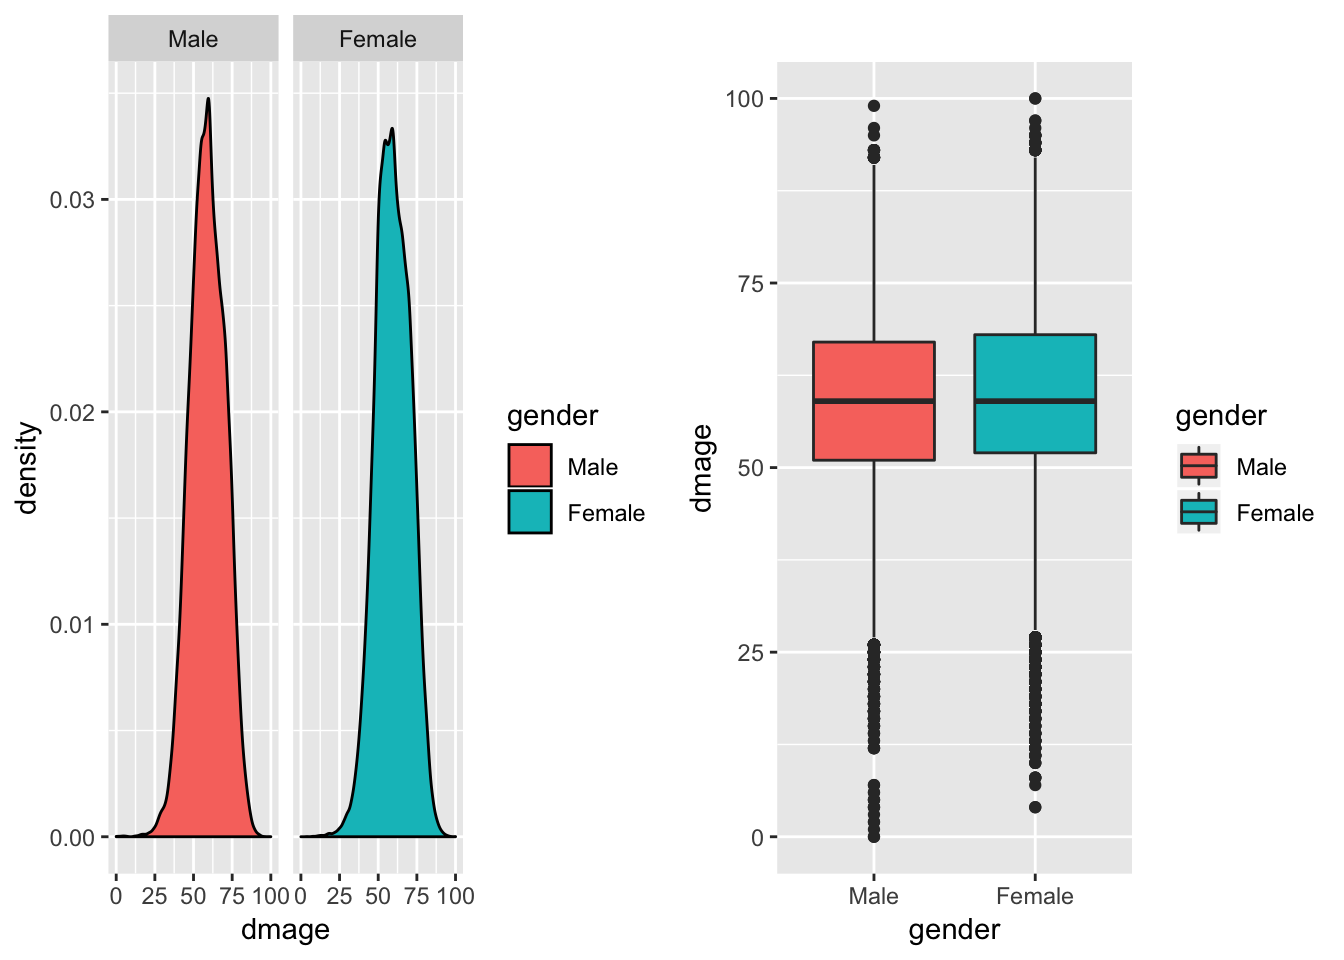
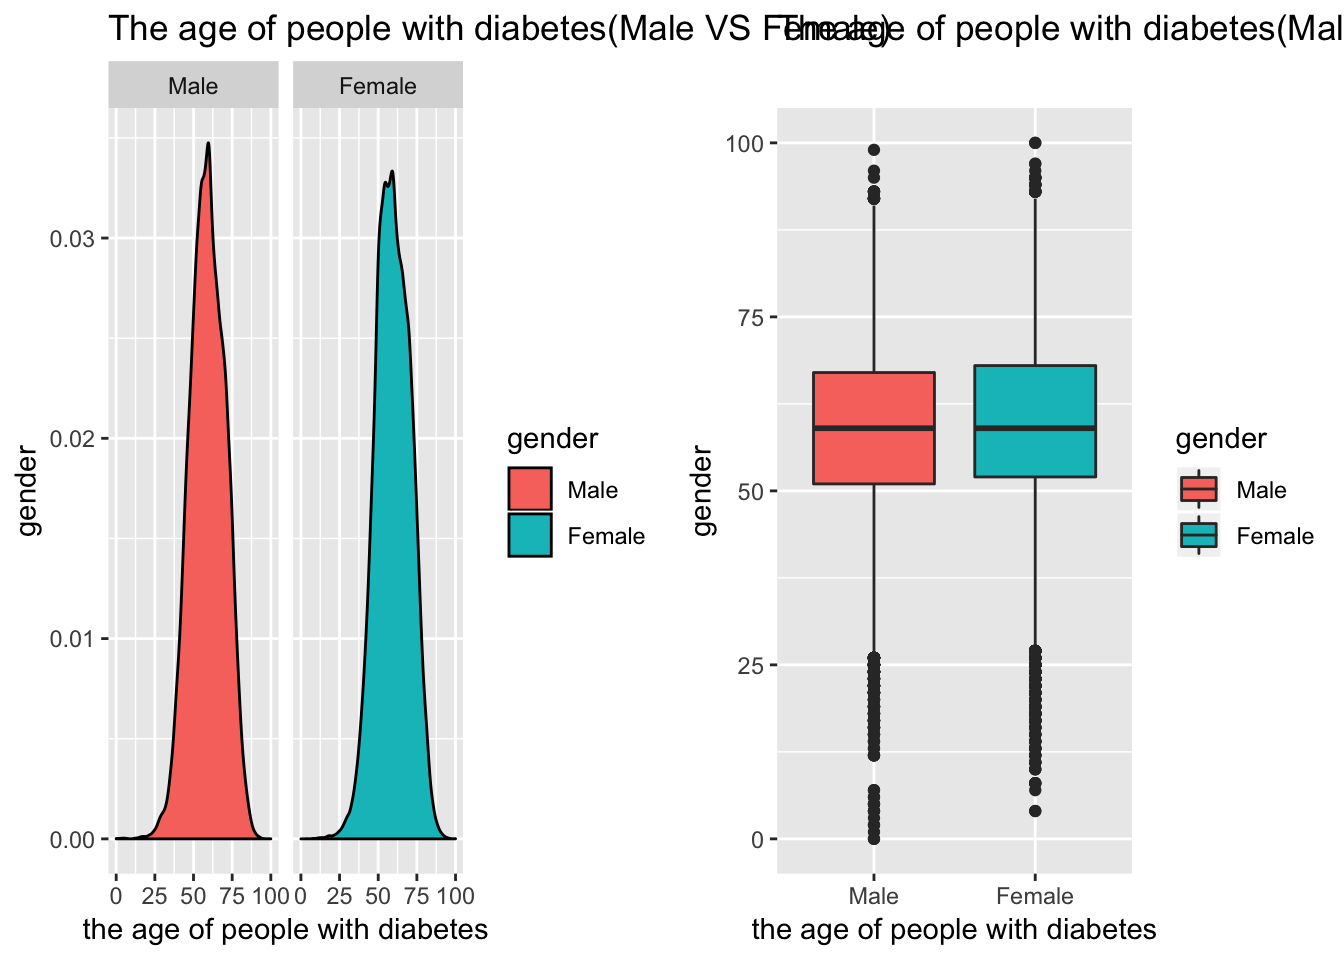
add plots title and do linear regression

diff --git a/Annie_final.html b/Annie_final.html
@@ -310,28 +310,27 @@ levels(df_combine$glu_self_monitor) &lt;- list(&quot;Yes&quot; = 1, &quot;No&quo
          gender = as.factor(gender)) %&gt;% 
   ggplot(aes(x = dmage, fill= gender)) +
   geom_density()+
-  facet_grid(.~gender)
+  facet_grid(.~gender)+
+  labs(
+    x = &quot;the age of people with diabetes&quot;,
+    y = &quot;gender&quot;
+  )+
+  ggtitle(&#39;The age of people with diabetes(Male VS Female)&#39;)
+  
 
 plot_dia_v&lt;-df_combine %&gt;% 
   mutate(dmage = as.numeric(dmage),
          gender = as.factor(gender)) %&gt;% 
   ggplot(aes(x = gender, y= dmage, fill=gender)) +
-  geom_boxplot()
+  geom_boxplot()+
+  labs(
+    x = &quot;the age of people with diabetes&quot;,
+    y = &quot;gender&quot;
+  )+
+  ggtitle(&#39;The age of people with diabetes(Male VS Female)&#39;)
 
 plot_dia_d+plot_dia_v</code></pre>
 <p><img src="Annie_final_files/figure-html/unnamed-chunk-3-1.png" width="672" /></p>
-<p>Make a tb-age distribution plot(QQQQQ)</p>
-<pre class="r"><code>df_tbage &lt;-df_combine %&gt;% 
-  na.omit(`_COL19`) %&gt;% 
-  rename(tbtime = `_COL19`) %&gt;% 
-  mutate(#separate(tbtime, into = c(&quot;tb_year&quot;, &quot;tb_month&quot;, &quot;tb_day&quot;), sep = &quot;-&quot;),
-         gender = as.factor(gender),
-         birthyear = as.numeric(birthyear)) 
-  
-ggplot(df_tbage, aes(x= birthyear, y =tbtime, fill = gender)) +
- geom_violin()+
-  facet_grid(.~gender)</code></pre>
-<p><img src="Annie_final_files/figure-html/unnamed-chunk-4-1.png" width="672" /></p>
 <p>Make a tb-diabete age distribution plot</p>
 <pre class="r"><code>df_combine %&gt;% 
   mutate(dmage = as.numeric(dmage),
@@ -339,15 +338,117 @@ ggplot(df_tbage, aes(x= birthyear, y =tbtime, fill = gender)) +
          gender = as.factor(gender)) %&gt;% 
   ggplot(aes( x=dmage,y=tb,group=gender) )+ 
   scale_fill_brewer(palette = &quot;Spectral&quot;) + 
-  geom_col(aes(fill=gender))</code></pre>
-<p><img src="Annie_final_files/figure-html/unnamed-chunk-5-1.png" width="672" /></p>
+  geom_col(aes(fill=gender))+
+  labs(
+    x = &quot;the age of people with diabetes&quot;,
+    y = &quot;tb&quot;
+  )+
+  ggtitle(&#39;TB VS The age of people with diabetes&#39;)</code></pre>
+<p><img src="Annie_final_files/figure-html/unnamed-chunk-4-1.png" width="672" /></p>
 <pre class="r"><code>df_combine %&gt;% 
   mutate(dmage = as.numeric(dmage),
          gender = as.factor(gender)) %&gt;% 
 ggplot(aes(x = tb, y = dmage, color = gender)) +
   geom_boxplot()+
-  facet_grid(.~gender)</code></pre>
-<p><img src="Annie_final_files/figure-html/unnamed-chunk-5-2.png" width="672" /></p>
+  facet_grid(.~gender)+
+  labs(
+    x = &quot;tb&quot;,
+    y = &quot;the age of people with diabetes&quot;
+  )+
+  ggtitle(&#39;The TB VS the age of people with diabetes&#39;)</code></pre>
+<p><img src="Annie_final_files/figure-html/unnamed-chunk-4-2.png" width="672" /></p>
+</div>
+<div id="want-to-explore-whether-there-is-an-association-for-tb-with-gender-the-diabete-time-and-birthyear" class="section level1">
+<h1>Want to explore whether there is an association for TB with gender, the diabete time and birthyear</h1>
+<pre class="r"><code>time_df &lt;-df_combine %&gt;% 
+  na.omit(`_COL19`) %&gt;% 
+  rename(tbtime = `_COL19`) %&gt;% 
+  select(tbtime, tb, gender, dmage, birthyear) %&gt;% 
+  mutate(gender = as.numeric(gender),
+         birthyear = as.numeric(birthyear), 
+         dmage = as.numeric(dmage),
+         tb = as.numeric(tb),
+         tbtime = as.numeric(tbtime))
+
+model_time &lt;- lm(tb ~ gender + dmage + birthyear,data = time_df, family = binomial())</code></pre>
+<pre><code>## Warning: In lm.fit(x, y, offset = offset, singular.ok = singular.ok, ...) :
+##  extra argument &#39;family&#39; will be disregarded</code></pre>
+<pre class="r"><code>summary(model_time)</code></pre>
+<pre><code>## 
+## Call:
+## lm(formula = tb ~ gender + dmage + birthyear, data = time_df, 
+##     family = binomial())
+## 
+## Residuals:
+##       Min        1Q    Median        3Q       Max 
+## -4.10e-16 -2.91e-16 -2.25e-16 -8.20e-17  1.49e-13 
+## 
+## Coefficients:
+##               Estimate Std. Error   t value Pr(&gt;|t|)    
+## (Intercept)  2.000e+00  6.231e-14  3.21e+13   &lt;2e-16 ***
+## gender      -2.661e-16  4.363e-16 -6.10e-01    0.542    
+## dmage       -1.007e-18  3.150e-17 -3.20e-02    0.974    
+## birthyear   -5.836e-18  3.126e-17 -1.87e-01    0.852    
+## ---
+## Signif. codes:  0 &#39;***&#39; 0.001 &#39;**&#39; 0.01 &#39;*&#39; 0.05 &#39;.&#39; 0.1 &#39; &#39; 1
+## 
+## Residual standard error: 5.338e-15 on 781 degrees of freedom
+## Multiple R-squared:  0.5003, Adjusted R-squared:  0.4984 
+## F-statistic: 260.6 on 3 and 781 DF,  p-value: &lt; 2.2e-16</code></pre>
+<pre class="r"><code>model_time %&gt;% 
+  broom::tidy() %&gt;% 
+  mutate(OR = exp(estimate),
+         log_OR = estimate,
+         OR_lower = exp(estimate - std.error*1.96),
+         OR_upper = exp(estimate + std.error*1.96)) %&gt;% 
+  select(c(term, log_OR, OR, p.value, OR_lower, OR_upper)) %&gt;% 
+  knitr::kable()</code></pre>
+<table>
+<thead>
+<tr class="header">
+<th align="left">term</th>
+<th align="right">log_OR</th>
+<th align="right">OR</th>
+<th align="right">p.value</th>
+<th align="right">OR_lower</th>
+<th align="right">OR_upper</th>
+</tr>
+</thead>
+<tbody>
+<tr class="odd">
+<td align="left">(Intercept)</td>
+<td align="right">2</td>
+<td align="right">7.389056</td>
+<td align="right">0.0000000</td>
+<td align="right">7.389056</td>
+<td align="right">7.389056</td>
+</tr>
+<tr class="even">
+<td align="left">gender</td>
+<td align="right">0</td>
+<td align="right">1.000000</td>
+<td align="right">0.5420792</td>
+<td align="right">1.000000</td>
+<td align="right">1.000000</td>
+</tr>
+<tr class="odd">
+<td align="left">dmage</td>
+<td align="right">0</td>
+<td align="right">1.000000</td>
+<td align="right">0.9744966</td>
+<td align="right">1.000000</td>
+<td align="right">1.000000</td>
+</tr>
+<tr class="even">
+<td align="left">birthyear</td>
+<td align="right">0</td>
+<td align="right">1.000000</td>
+<td align="right">0.8519468</td>
+<td align="right">1.000000</td>
+<td align="right">1.000000</td>
+</tr>
+</tbody>
+</table>
 </div>
 
 
